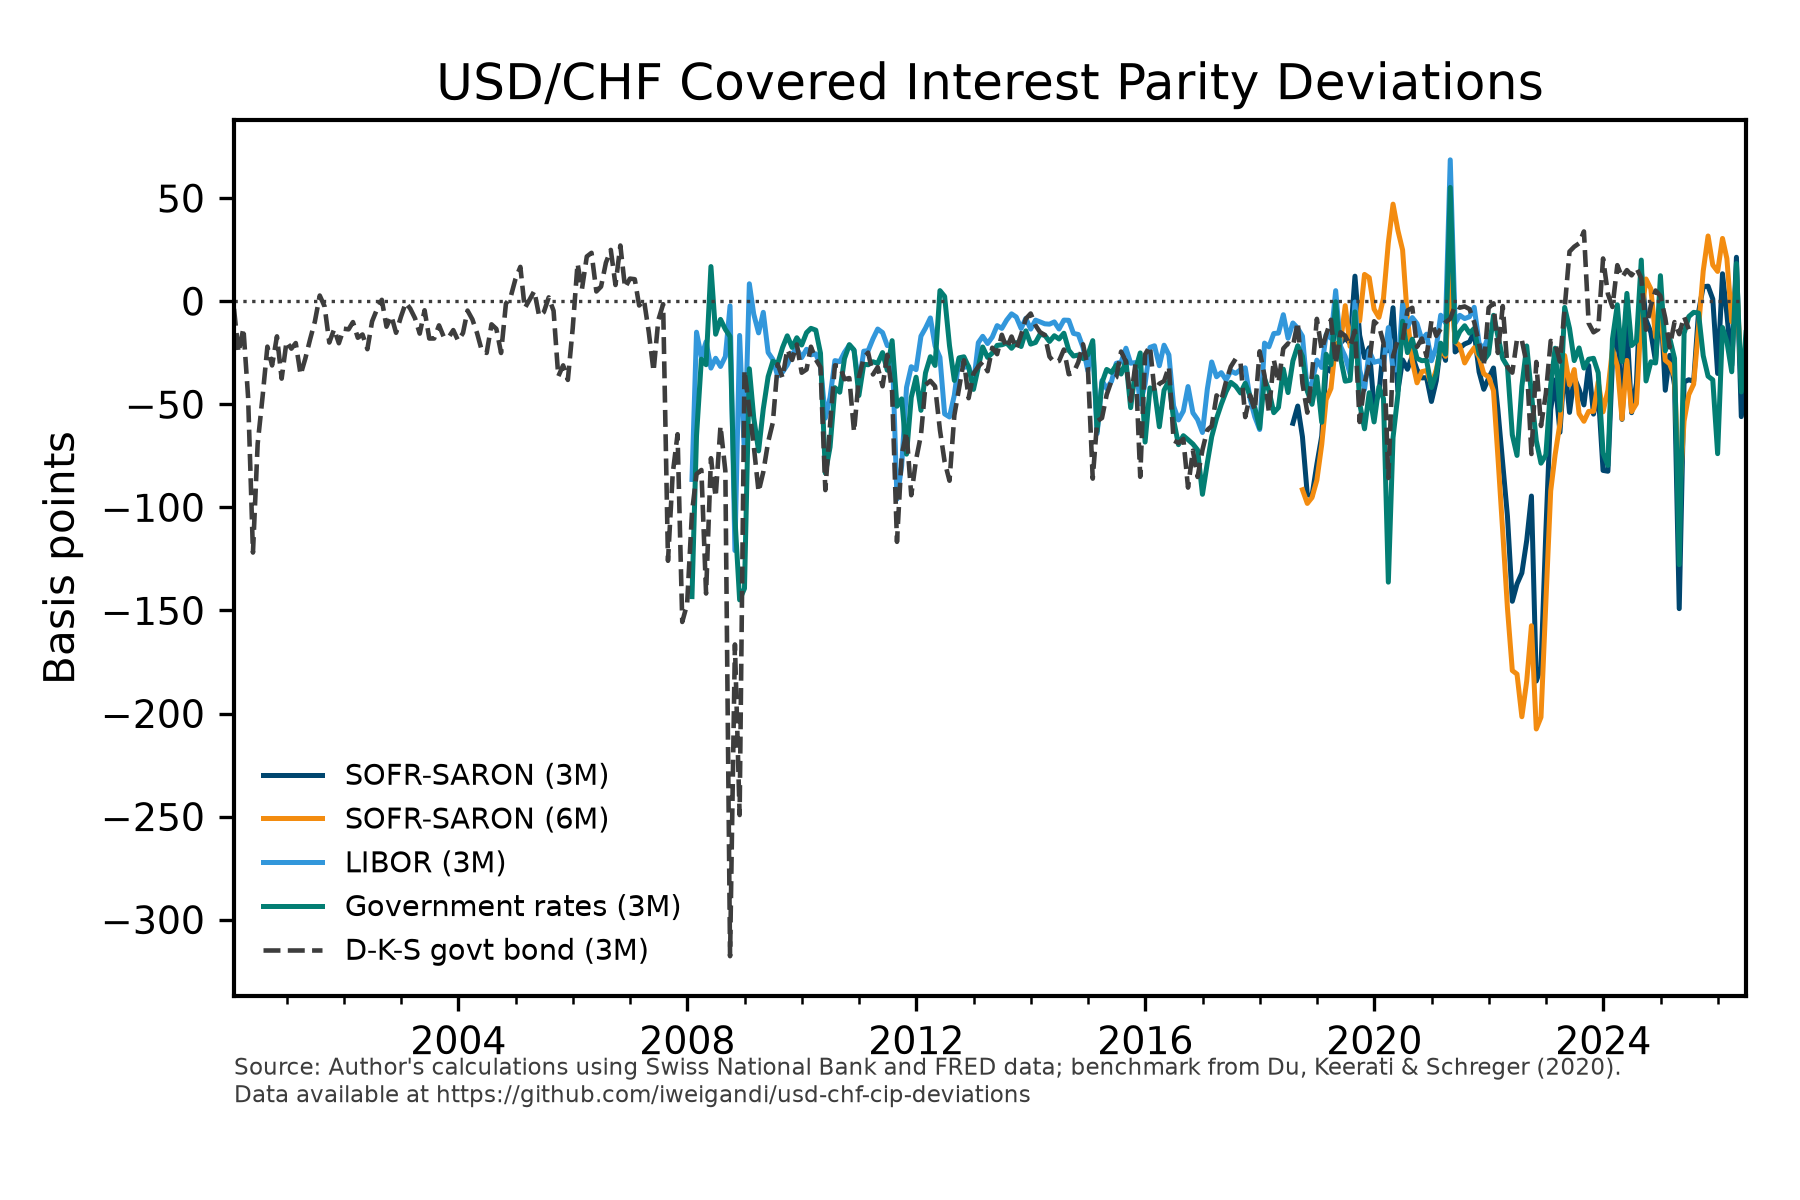
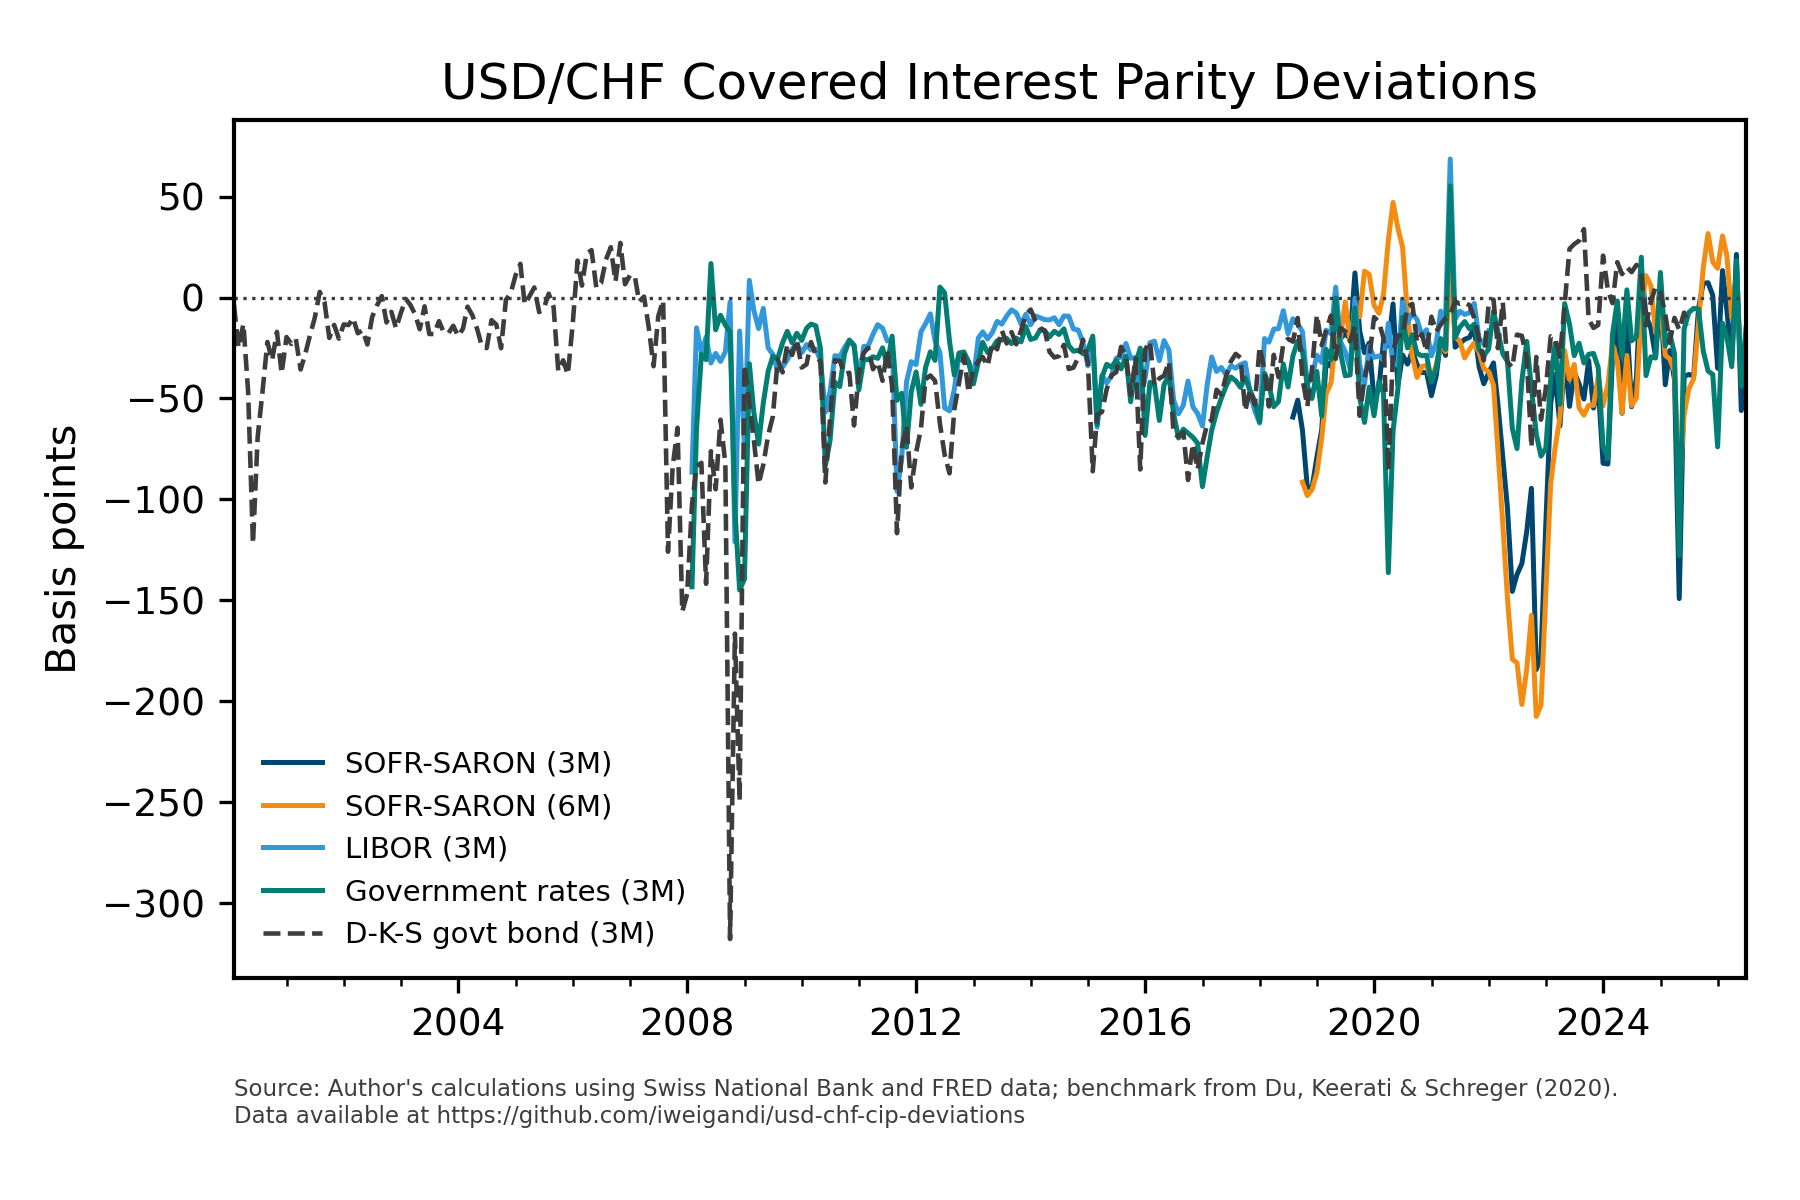
Adjust CIP chart note spacing

diff --git a/usd_chf_cip.py b/usd_chf_cip.py
@@ -425,7 +425,7 @@ def plot_outputs(panel: pd.DataFrame) -> None:
     ax.xaxis.set_major_formatter(mdates.DateFormatter("%Y"))
     plt.setp(ax.get_xticklabels(), rotation=0, ha="center")
     ax.tick_params(axis="x", which="minor", bottom=True)
-    plt.subplots_adjust(left=0.13, right=0.97, top=0.90, bottom=0.17)
+    plt.subplots_adjust(left=0.13, right=0.97, top=0.90, bottom=0.185)
 
     note = (
         "Source: Author's calculations using Swiss National Bank and FRED data; "
@@ -434,7 +434,7 @@ def plot_outputs(panel: pd.DataFrame) -> None:
     )
 
     fig.text(
-        0.13, 0.075,
+        0.13, 0.060,
         note,
         ha="left",
         va="bottom",